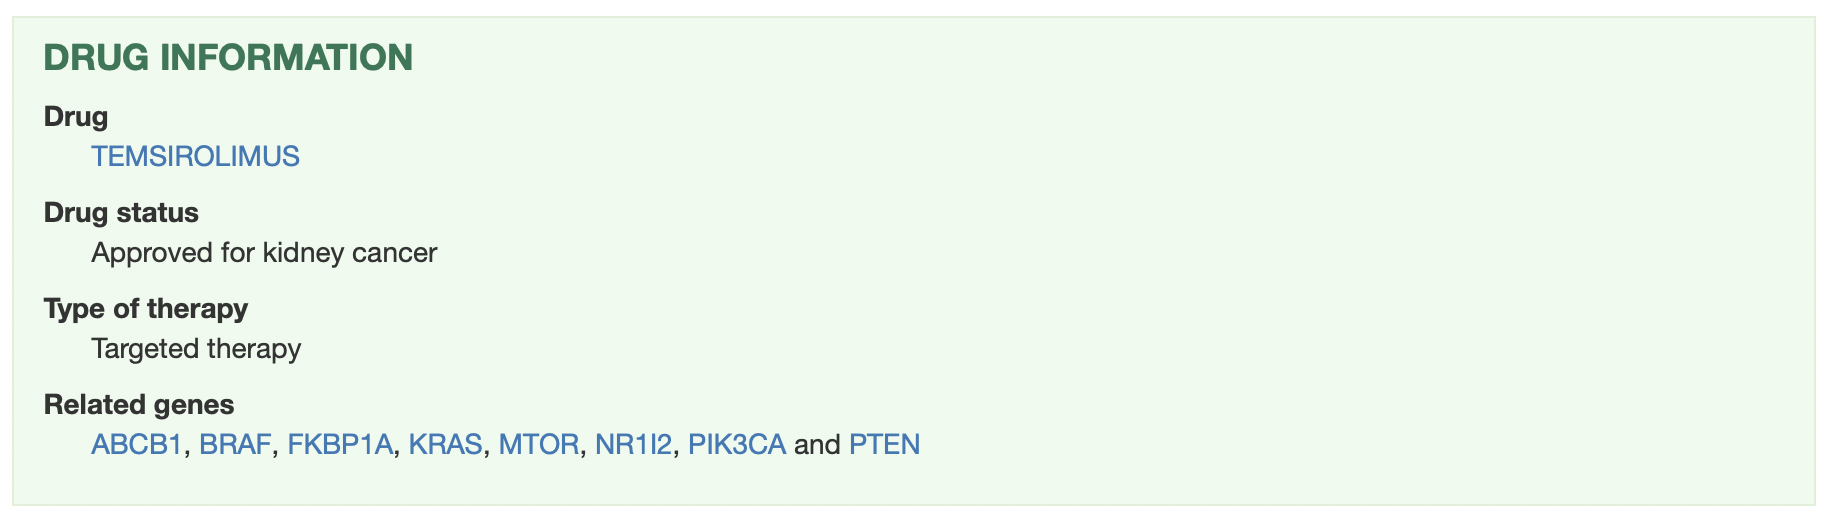
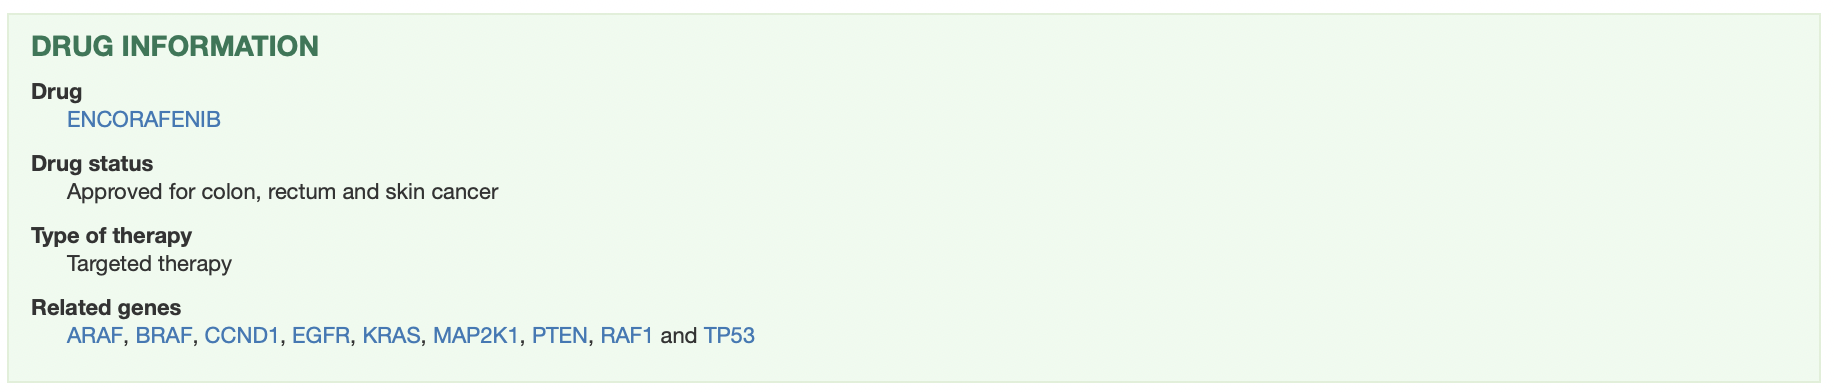
Update drug query

diff --git a/app/help/help.md b/app/help/help.md
@@ -436,7 +436,7 @@ You may also notice one alert <img src="response-alert.svg" alt="Exclamation Mar
 
 Encorafenib is a targeted therapy approved for the treatment of colon, rectum and skin cancer.
 
-<div style="text-align: left;"><img src="drug-query-example-input.png" alt="Drug Query Input" height="50%" width="50%"/>
+<div style="text-align: left;"><img src="drug-query-example-input.png" alt="Drug Query Input" height="50%" width="50%" max-width="850px"/>
 
 Click on the <span style="color:#50AC50">**Query**</span> button.
 
